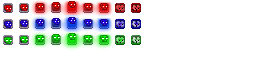
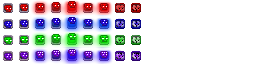
Added 4th type of runic skull * If this skull is active Lich takes 0 damage and does not blink

Changed region(s): [[0.0, 0.7188, 0.5625, 1.0], [0.375, 0.7188, 0.4062, 0.75]]

diff --git a/PixelDungeon/src/main/java/com/nyrds/pixeldungeon/mobs/necropolis/RunicSkull.java b/PixelDungeon/src/main/java/com/nyrds/pixeldungeon/mobs/necropolis/RunicSkull.java
@@ -18,7 +18,8 @@ public class RunicSkull extends MultiKindMob {
 
 	protected static final int RED_SKULL	 = 0;
 	protected static final int BLUE_SKULL	 = 1;
-	protected static final int GREEN_SKULL = 2;
+	protected static final int GREEN_SKULL   = 2;
+	protected static final int PURPLE_SKULL  = 3;
 
 	public RunicSkull() {
 
@@ -27,7 +28,7 @@ public class RunicSkull extends MultiKindMob {
 		defenseSkill = 10;
 
 		pacified = true;
-		kind = Random.Int(3);
+		kind = Random.Int(4);
 		state = WANDERING;
 
 		IMMUNITIES.add( Paralysis.class );

diff --git a/PixelDungeon/src/main/java/com/nyrds/pixeldungeon/mobs/necropolis/Lich.java b/PixelDungeon/src/main/java/com/nyrds/pixeldungeon/mobs/necropolis/Lich.java
@@ -205,6 +205,12 @@ public class Lich extends Boss {
 
     @Override
     public int defenseProc(Char enemy, int damage) {
+        if (activatedSkull != null)
+        {
+            if(activatedSkull.getKind() == 3){
+                return 0;
+            }
+        }
         blink(enemy.getPos());
         return damage;
     }
